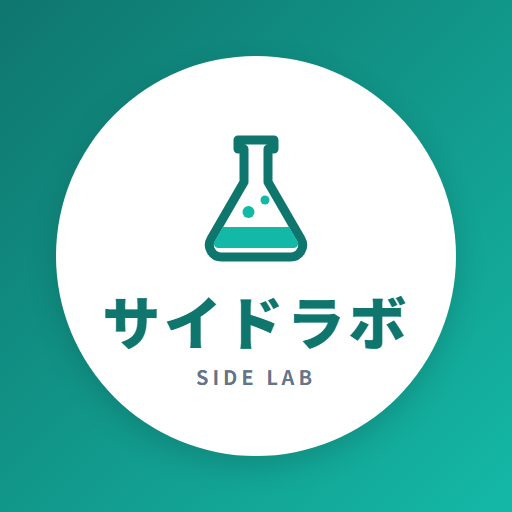
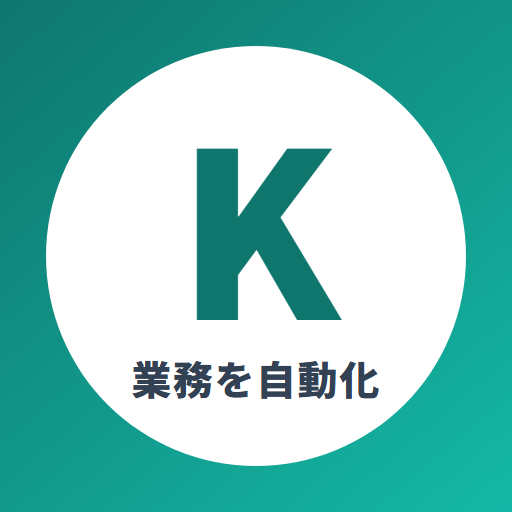
屋号「サイドラボ」をやめ、kentani 名義に統一

Changed region(s): [[0.0625, 0.0625, 0.9375, 0.9375]]

diff --git a/works/gas-reservation/index.html b/works/gas-reservation/index.html
@@ -3,7 +3,7 @@
 <head>
 <meta charset="utf-8">
 <meta name="viewport" content="width=device-width,initial-scale=1">
-<title>予約の自動管理（サンプル）｜サイドラボ</title>
+<title>予約の自動管理（サンプル）｜kentani</title>
 <meta name="description" content="Googleフォームの予約を自動で一覧に記録し、確認メール・カレンダー登録・重複予約の検知・前日リマインドまで行うGoogle Apps Scriptのサンプルです。店名・データはすべて架空です。">
 <link rel="icon" href="../../icon.png">
 <style>
@@ -103,11 +103,11 @@ footer{border-top:1px solid var(--line);padding:24px 0 40px;color:var(--sub);fon
 </style>
 </head>
 <body>
-<div class="sample-bar">※ このページはサイドラボの制作サンプルです。店名・お客様情報はすべて架空のデータです。</div>
+<div class="sample-bar">※ このページはkentaniの制作サンプルです。店名・お客様情報はすべて架空のデータです。</div>
 
 <header>
   <div class="wrap">
-    <a class="back" href="../../index.html">← サイドラボ トップへ</a>
+    <a class="back" href="../../index.html">← kentani トップへ</a>
     <div class="badges"><span class="badge sample">サンプル</span><span class="badge">Google Apps Script</span><span class="badge">フォーム・カレンダー・Gmail</span></div>
     <h1>Googleフォームの予約を<br>自動で管理</h1>
     <p>予約が入った瞬間に、一覧への記録・確認メール・カレンダー登録まで自動。ダブルブッキングは自動で見つけてお店にだけ知らせ、前日にはリマインドも送ります。</p>
@@ -278,9 +278,9 @@ data.forEach(<span class="k">function</span> (r, i) {
 
 <footer>
   <div class="wrap">
-    このページと掲載データはサイドラボの制作サンプルです。実在の店舗・人物とは関係ありません。<br>
+    このページと掲載データはkentaniの制作サンプルです。実在の店舗・人物とは関係ありません。<br>
     スタッフ指名・メニューごとの所要時間・LINE 通知など、カスタマイズもご相談ください。<br>
-    <a href="../../index.html">サイドラボ トップへ戻る</a>
+    <a href="../../index.html">kentani トップへ戻る</a>
   </div>
 </footer>
 </body>

diff --git a/works/gas-invoice/index.html b/works/gas-invoice/index.html
@@ -3,7 +3,7 @@
 <head>
 <meta charset="utf-8">
 <meta name="viewport" content="width=device-width,initial-scale=1">
-<title>請求書一括作成（サンプル）｜サイドラボ</title>
+<title>請求書一括作成（サンプル）｜kentani</title>
 <meta name="description" content="Googleスプレッドシートの売上一覧から、取引先ごとの請求書PDFをボタン1つで一括作成するGoogle Apps Scriptのサンプルです。データはすべて架空です。">
 <link rel="icon" href="../../icon.png">
 <style>
@@ -93,11 +93,11 @@ footer{border-top:1px solid var(--line);padding:24px 0 40px;color:var(--sub);fon
 </style>
 </head>
 <body>
-<div class="sample-bar">※ このページはサイドラボの制作サンプルです。会社名・金額・口座などはすべて架空のデータです。</div>
+<div class="sample-bar">※ このページはkentaniの制作サンプルです。会社名・金額・口座などはすべて架空のデータです。</div>
 
 <header>
   <div class="wrap">
-    <a class="back" href="../../index.html">← サイドラボ トップへ</a>
+    <a class="back" href="../../index.html">← kentani トップへ</a>
     <div class="badges"><span class="badge sample">サンプル</span><span class="badge">Google Apps Script</span><span class="badge">スプレッドシート</span></div>
     <h1>売上一覧から<br>請求書を一括作成</h1>
     <p>月末にメニューを1回押すだけ。取引先ごとの請求書を作って PDF で保存し、PDF を添付したメールの下書きまで自動で用意します。</p>
@@ -250,9 +250,9 @@ trashSameNameFiles_(folder, fileName + <span class="s">'.pdf'</span>);
 
 <footer>
   <div class="wrap">
-    このページと掲載データはサイドラボの制作サンプルです。実在の企業・人物・口座とは関係ありません。<br>
+    このページと掲載データはkentaniの制作サンプルです。実在の企業・人物・口座とは関係ありません。<br>
     自社の請求書レイアウトへの対応・軽減税率・取引先ごとの締め日など、カスタマイズもご相談ください。<br>
-    <a href="../../index.html">サイドラボ トップへ戻る</a>
+    <a href="../../index.html">kentani トップへ戻る</a>
   </div>
 </footer>
 </body>

diff --git a/index.html b/index.html
@@ -3,9 +3,9 @@
 <head>
 <meta charset="utf-8">
 <meta name="viewport" content="width=device-width,initial-scale=1">
-<title>サイドラボ｜スプレッドシート自動化・ホームページ制作</title>
+<title>kentani｜スプレッドシート自動化・ホームページ制作</title>
 <meta name="description" content="個人事業主・小さなお店向けに、Googleスプレッドシート／Excelの業務自動化（GAS）と、月額0円で運用できる1ページホームページを制作しています。">
-<meta property="og:title" content="サイドラボ｜スプレッドシート自動化・ホームページ制作">
+<meta property="og:title" content="kentani｜スプレッドシート自動化・ホームページ制作">
 <meta property="og:description" content="面倒な手作業をボタン1つに。小さなお店のホームページも月額0円で。">
 <meta property="og:type" content="website">
 <meta property="og:image" content="ogp.png">
@@ -50,7 +50,7 @@ footer{border-top:1px solid var(--line);padding:28px 0 40px;color:var(--sub);fon
 <body>
 <header>
   <div class="wrap">
-    <div class="nav"><img src="icon.png" alt="">サイドラボ</div>
+    <div class="nav"><img src="icon.png" alt="">kentani</div>
     <div class="hero">
       <h1>面倒な手作業を、<br><em>ボタン1つ</em>に。</h1>
       <p>個人事業主・小さなお店・少人数の会社向けに、Googleスプレッドシート／Excelの業務自動化と、月額0円で運用できるホームページを制作しています。やり取りはすべてテキストで完結します。</p>
@@ -118,7 +118,7 @@ footer{border-top:1px solid var(--line);padding:28px 0 40px;color:var(--sub);fon
 </main>
 
 <footer>
-  <div class="wrap">© 2026 サイドラボ</div>
+  <div class="wrap">© 2026 kentani</div>
 </footer>
 </body>
 </html>
